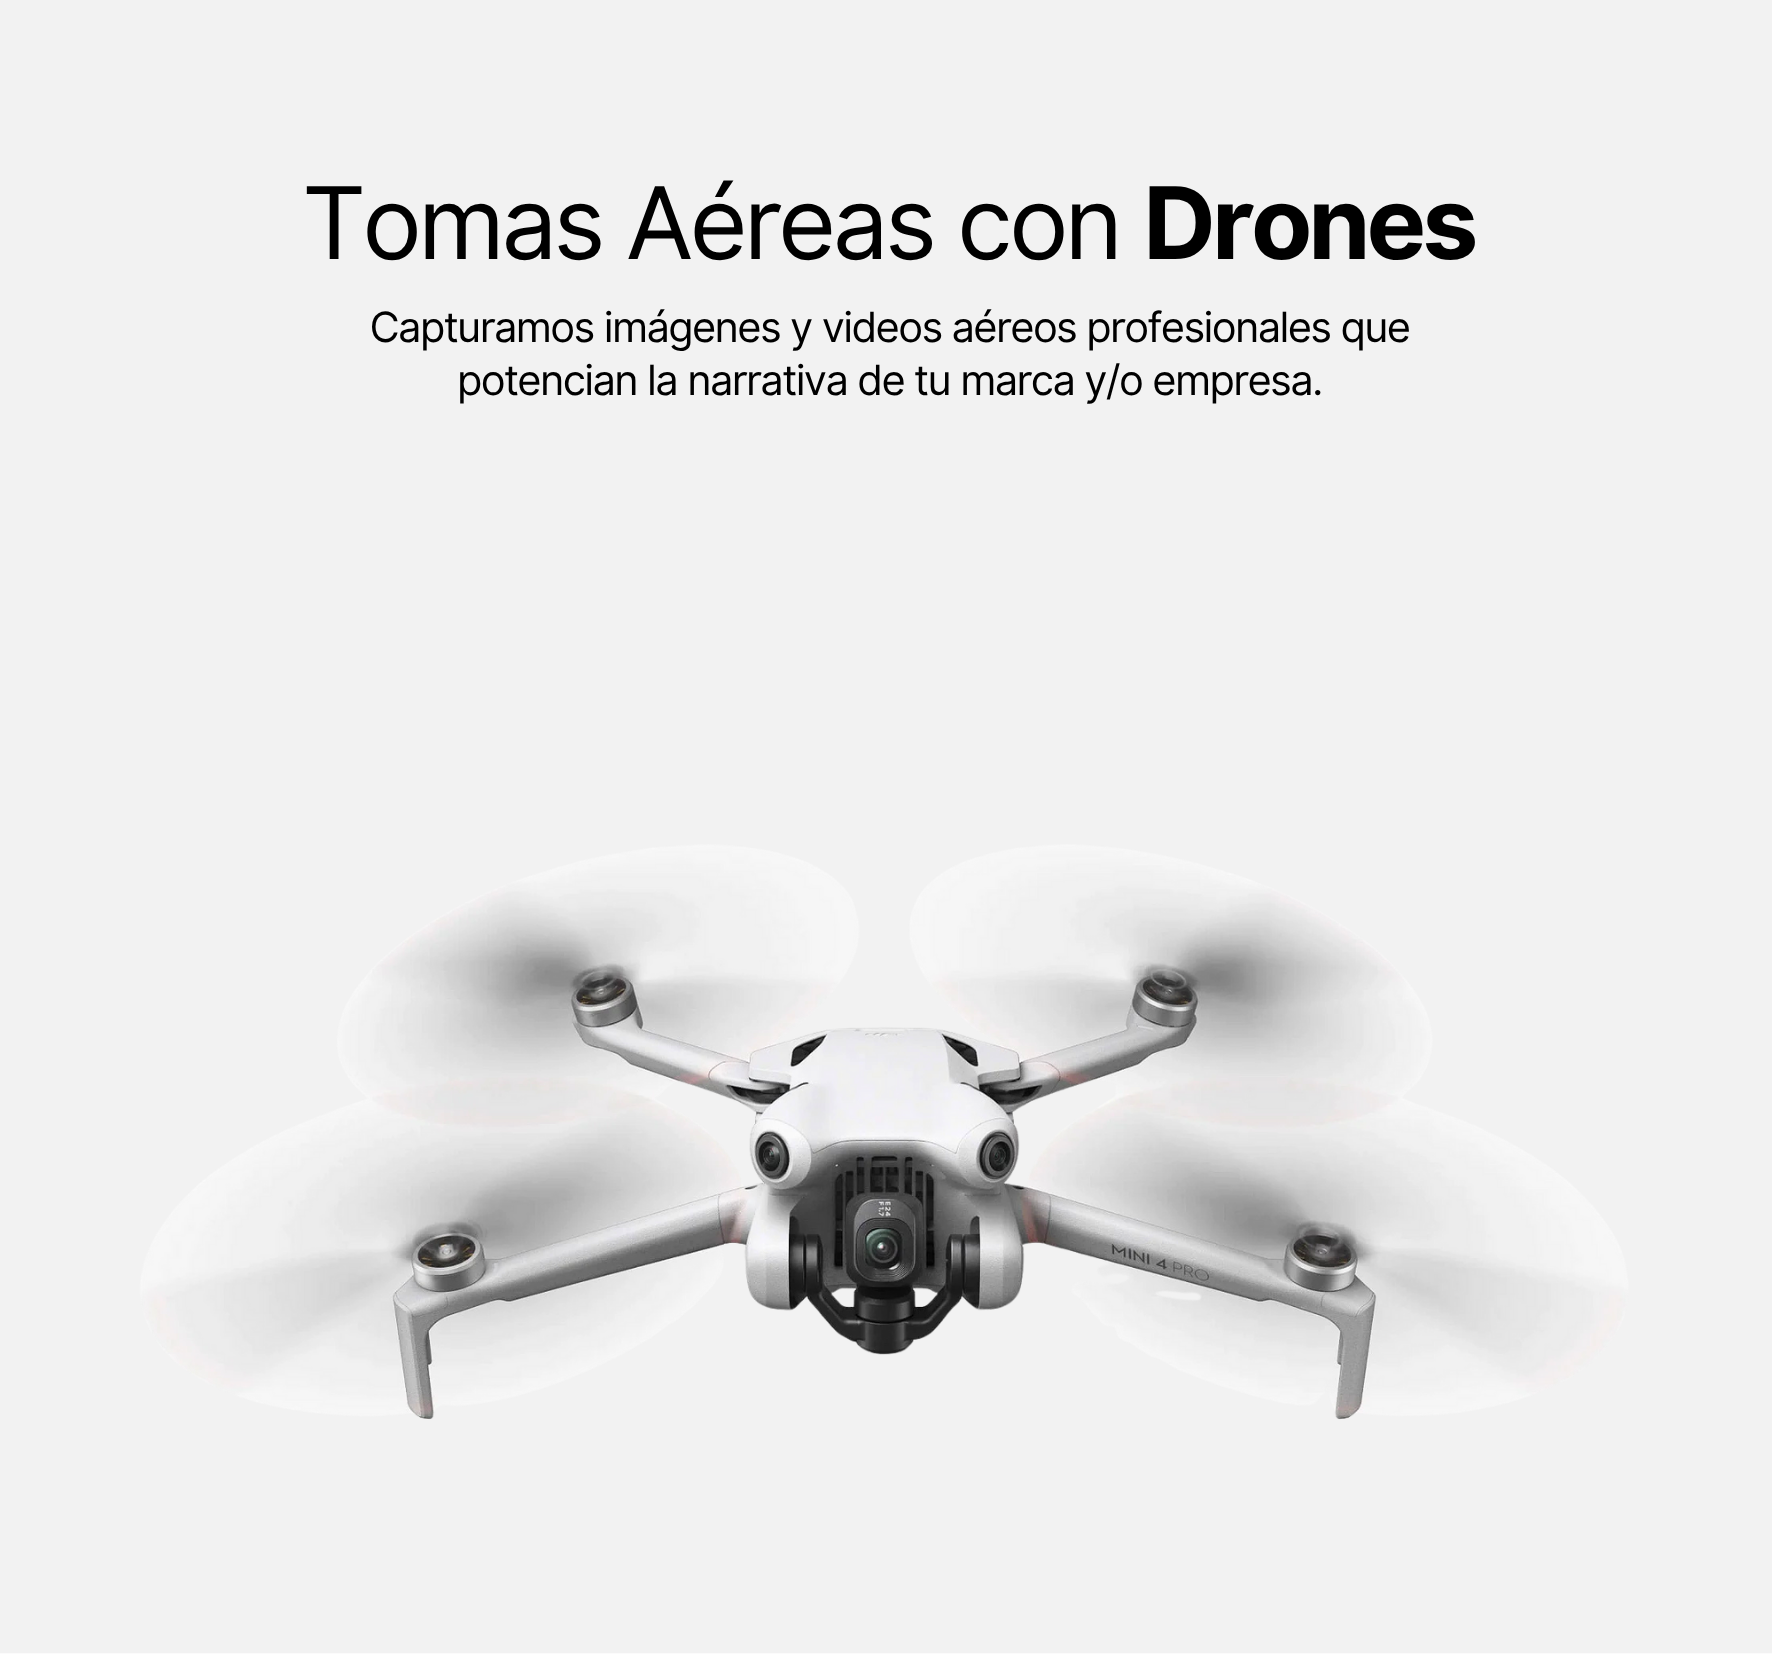
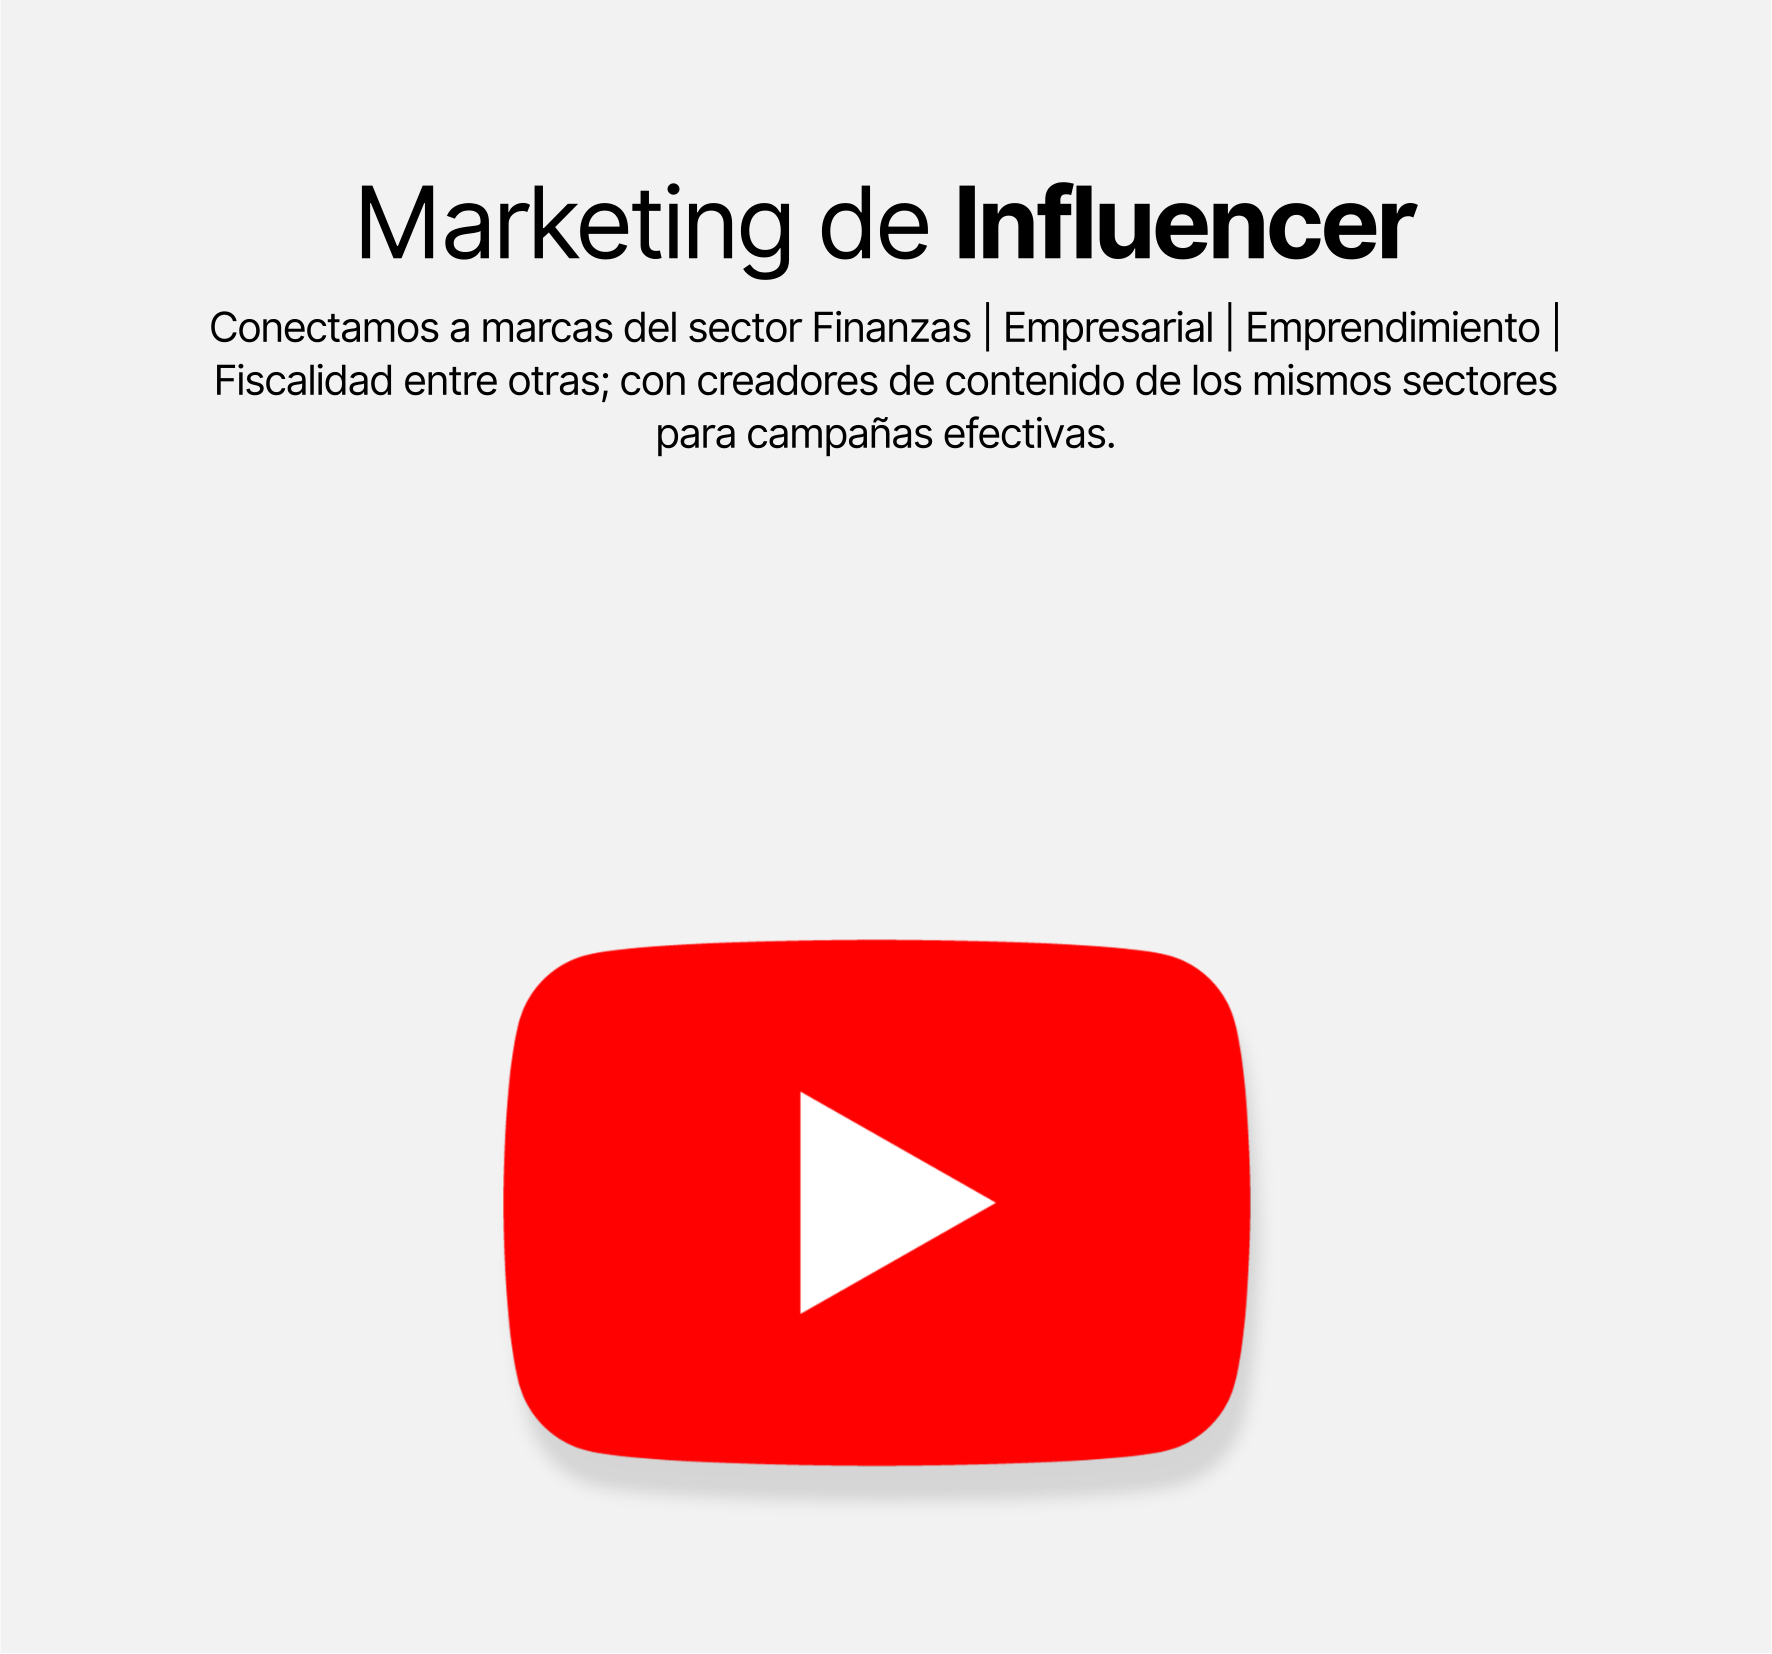
services changes

Changed region(s): [[0.1552, 0.555, 0.838, 0.925], [0.1242, 0.0925, 0.8691, 0.2775]]

diff --git a/src/components/UI/OffersSection/constants.ts b/src/components/UI/OffersSection/constants.ts
@@ -35,9 +35,9 @@ export const offers = [
   },
   {
     illustration: service2,
-    title: 'Tomas Aéreas con Drones',
+    title: 'Marketing de Influencers',
     details:
-      'Capturamos imágenes y videos aéreos profesionales que potencian la narrativa visual de tu marca.',
+      'Organizamos campañas con creadores de contenido alineadas a los objetivos de tu marca.',
   },
   {
     illustration: service3,
@@ -64,15 +64,15 @@ export const offers = [
   },
   {
     illustration: service7,
-    title: 'Comunicación Digital',
+    title: 'Tomas Aéreas con Drones',
     details:
-      'Gestionamos redes sociales con contenido estratégico y storytelling que construye comunidad.',
+      'Capturamos imágenes y videos aéreos profesionales que potencian la narrativa visual de tu marca.',
   },
   {
     illustration: service8,
-    title: 'Listas de Difusión en WhatsApp Business',
+    title: 'Comunicación Digital',
     details:
-      'Segmentamos audiencias y diseñamos mensajes masivos efectivos para mantener a tu público informado.',
+      'Gestionamos redes sociales con contenido estratégico y storytelling que construye comunidad.',
   },
   {
     illustration: service9,
@@ -89,7 +89,17 @@ export const offers = [
 ];
 
 // -------- Modal Content per service --------
-export type ServiceModalKey = 'web' | 'drones' | 'ads' | 'crm' | 'metaPortfolio' | 'automation' | 'optimize' | 'broadcast' | 'communication' | 'branding';
+export type ServiceModalKey =
+  | 'web'
+  | 'influencer'
+  | 'drones'
+  | 'ads'
+  | 'crm'
+  | 'metaPortfolio'
+  | 'automation'
+  | 'optimize'
+  | 'communication'
+  | 'branding';
 
 export const serviceModals: Record<ServiceModalKey, {
   title: string;
@@ -109,6 +119,20 @@ export const serviceModals: Record<ServiceModalKey, {
       'Diseño único y exclusivo',
       'Experiencia de usuario mejorada',
       'Optimización para SEO y velocidad'
+    ],
+  },
+  influencer: {
+    title: 'Marketing de Influencers',
+    intro: [
+      'Organizamos campañas de marketing con creadores de contenido principalmente en Youtube donde ya tenemos una comunidad y audiencia activas, según el objetivo de la marca o empresa.'
+    ],
+    benefitsTitle: 'Ventajas de hacer Marketing de Influencers',
+    benefits: [
+      'Costo-eficiencia',
+      'Credibilidad inmediata',
+      'Engagement y alcance',
+      'Resultados rápidos y escalables',
+      'Alcance auténtico y segmentado'
     ],
   },
   drones: {
@@ -191,19 +215,6 @@ export const serviceModals: Record<ServiceModalKey, {
       'Precisión de la información comercial',
       'Mayor visibilidad y posicionamiento local',
       'Aprovechamiento de recursos visuales y publicaciones'
-    ],
-  },
-  broadcast: {
-    title: 'Lista de Difusión WhatsApp Business',
-    intro: [
-     'Implementamos y gestionamos Listas de Difusión en WhatsApp Business como canal clave para la comunicación directa, personalizada y eficiente con tus clientes enfocado en ventas o marketing.',
-    ],
-    benefitsTitle: 'Principales beneficios',
-    benefits: [
-       'Alta tasa de apertura',
-       'Medición y optimización',
-       'Rapidez y eficiencia operativa',
-       'Versatilidad y variedad de formatos'
     ],
   },
   communication: {

diff --git a/src/components/UI/OffersSection/index.tsx b/src/components/UI/OffersSection/index.tsx
@@ -76,13 +76,12 @@ const OffersSection = () => {
               const openForOffer = () => {
                 const t = offer.title.toLowerCase();
                 if (/desarrollo/.test(t)) setOpen("web");
+                else if (/influencer/.test(t)) setOpen("influencer");
                 else if (/dron/.test(t)) setOpen("drones");
                 else if (/(google|ads|pauta)/.test(t)) setOpen("ads");
                 else if (/(portafolio)/.test(t)) setOpen("metaPortfolio");
                 else if (/(crm|kommo)/.test(t)) setOpen("crm");
                 else if (/automat/.test(t)) setOpen("automation");
-                else if (/(lista|difusi[oó]n|whatsapp)/.test(t))
-                  setOpen("broadcast");
                 else if (/(optimización|plataformas)/.test(t))
                   setOpen("optimize");
                 else if (/(comunicaci[oó]n|redes|social)/.test(t))
@@ -142,15 +141,6 @@ const OffersSection = () => {
                 >
                   ×
                 </button>
-                {/* Fondo común para todos los modales de servicios */}
-                <Image
-                  className="modal-bg"
-                  src={uIsotipo}
-                  alt=""
-                  fill
-                  sizes="(max-width: 768px) 92vw, 880px"
-                  priority
-                />
                 <div className="modal-content">
                   <h3>{serviceModals[open].title}</h3>
                   {serviceModals[open].intro.map((p, i) => (
